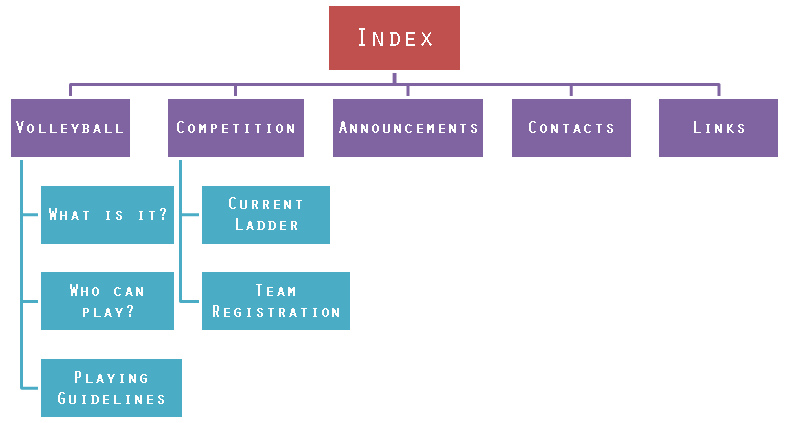
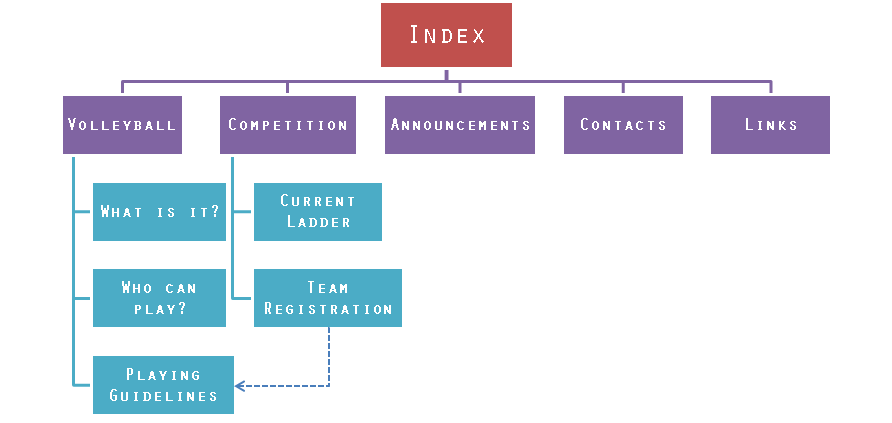
Updated Project Plan's flowchart.

diff --git a/project_files/plan.html b/project_files/plan.html
@@ -26,6 +26,6 @@
 <h2>Site Flowchart (Structure Diagram)</h2>
 <p><img src="Project Plan Flowchart.png" width="791" height="423" alt="Site Flowchart"></p>
 <h2>GitHub Repository</h2>
-<p><a href="http://github.com/...">https://github.com/chelseacx/diggers-beach-volleyball.git</a></p>
+<p><a href="https://github.com/chelseacx/diggers-beach-volleyball">https://github.com/chelseacx/diggers-beach-volleyball.git</a></p>
 </body>
 </html>
